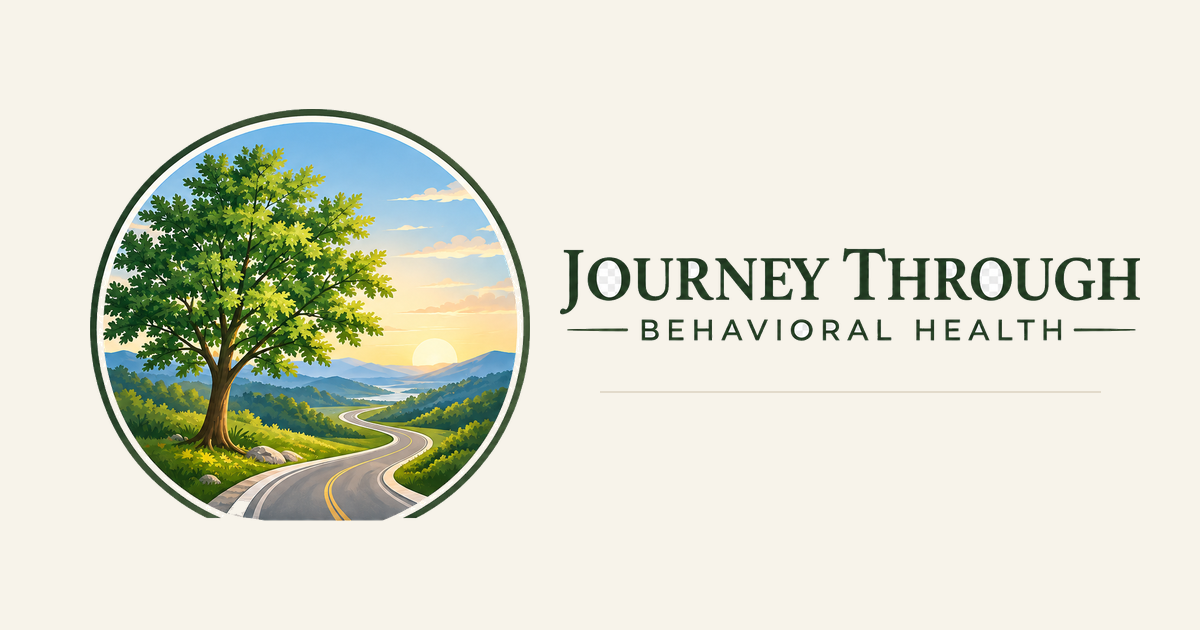
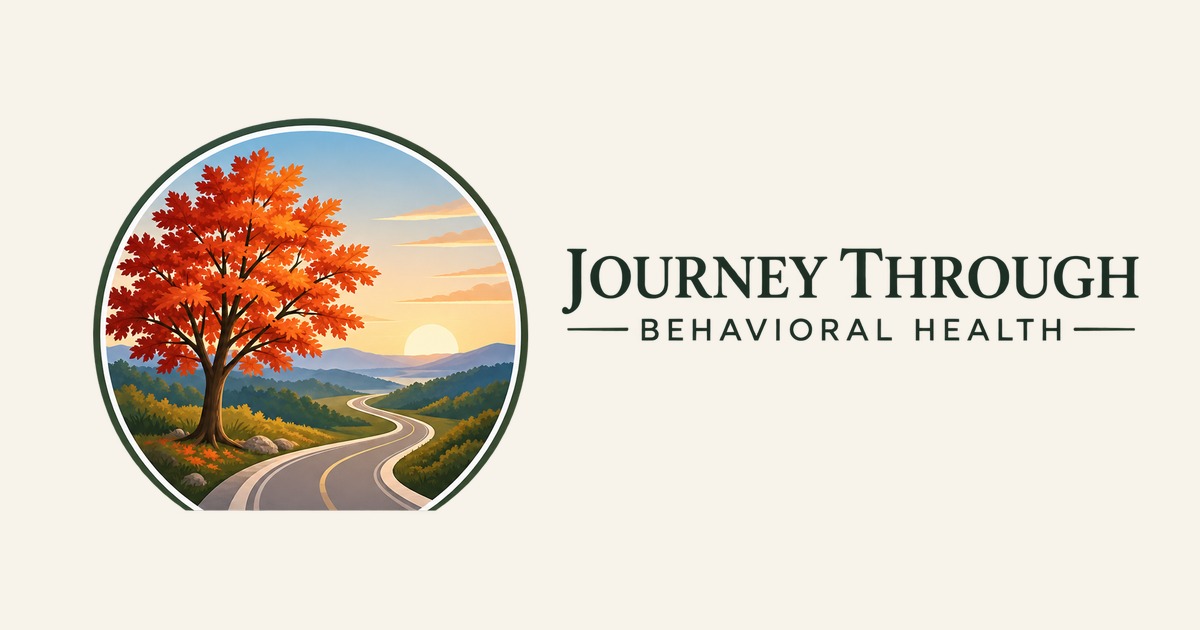
Autumn variant: maple mark, clay accent, warm tint
Same layout and copy as main; only the logo set, favicon, OG image,
and three color tokens differ. For side-by-side comparison.

Changed region(s): [[0.0617, 0.1508, 0.9558, 0.8444], [0.5242, 0.6032, 0.8942, 0.6333]]

diff --git a/public/css/site.css b/public/css/site.css
@@ -1,6 +1,6 @@
 /* Journey Through Behavioral Health
    Plain CSS, custom properties, mobile first. See DESIGN.md for the plan
-   (revision 2: "summer green" direction from Claude Design). */
+   (autumn variant: maple mark, clay accent). */
 
 /* ---------- Fonts (self-hosted; see /fonts/README.md) ---------- */
 @font-face {
@@ -22,11 +22,11 @@
 :root {
   --paper: #f7f3ea;   /* page background */
   --sand: #e2dacb;    /* rules, fields, quiet surfaces */
-  --leaf: #e6ede3;    /* pale green section tint */
+  --leaf: #f3e7d6;    /* warm section tint (autumn) */
   --ink: #2c4636;     /* wordmark green: text and headings */
   --stone: #575b55;   /* secondary text */
-  --sky: #2a6480;     /* horizon blue: actions and links */
-  --sky-deep: #224f66;
+  --sky: #98421f;     /* maple clay: actions and links (autumn) */
+  --sky-deep: #7d3618;
   --line: #d9d1c3;
 
   --font-body: "Atkinson Hyperlegible Next", system-ui, -apple-system, "Segoe UI", Roboto, sans-serif;
